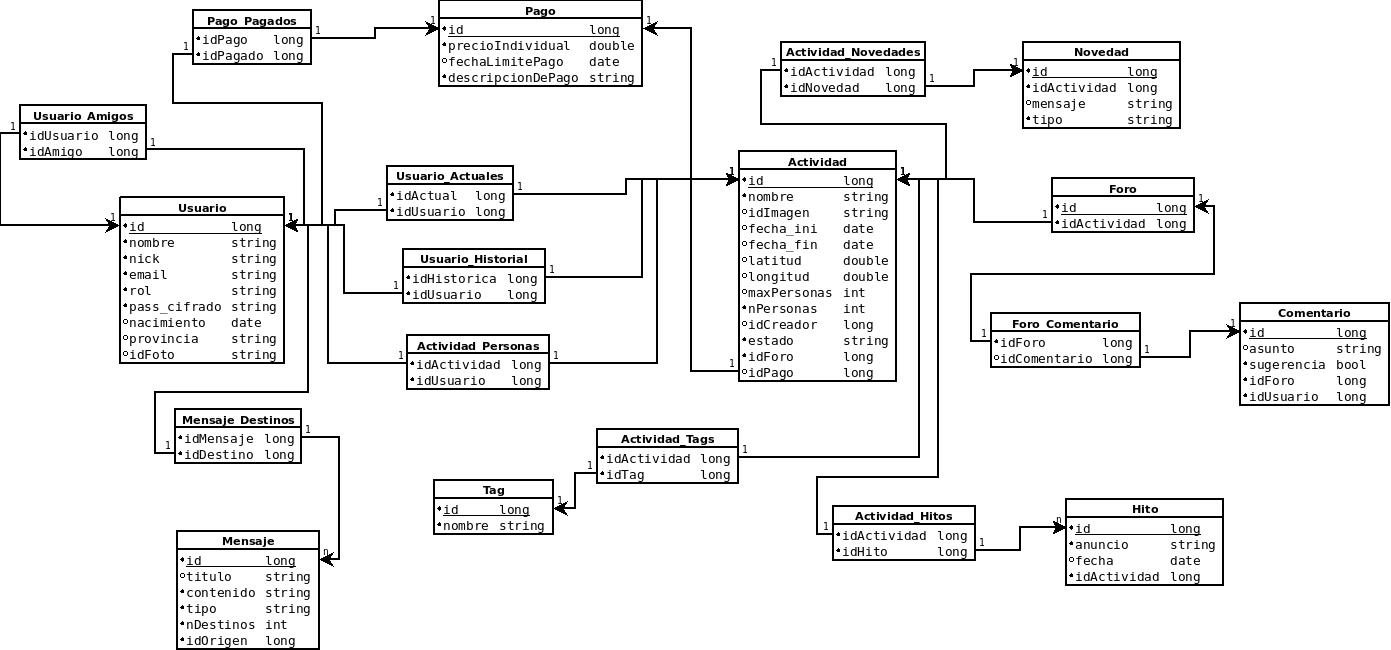
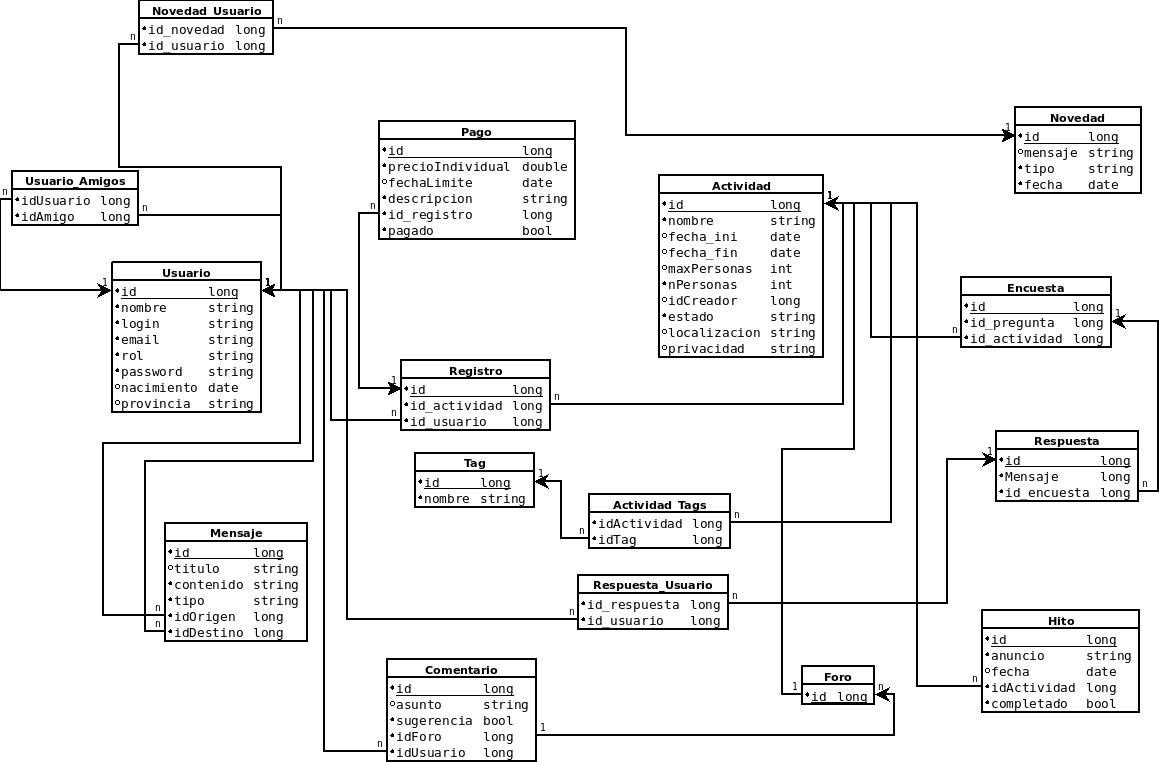
imagen bae de datos

diff --git a/src/main/webapp/resources/js/misActividades.js b/src/main/webapp/resources/js/misActividades.js
@@ -4,7 +4,15 @@ var temp2 = null;
 var temp3 = null;
 var temp4 = null;
 var modo=0;
+var filtro=" ";
 
+
+
+function filtro(valor){
+	
+	filtro+=" AND "+valor;
+	
+}
 
 $('input[type="checkbox"][name="switch1"]').change(function(){
 	if(this.checked){
@@ -42,6 +50,7 @@ function refrescar(data){
 	 } else {
 		 burbuja(data);
 	 }
+	 filtro="";
 }
 
 

diff --git a/src/main/java/es/fdi/iw/controller/HomeController.java b/src/main/java/es/fdi/iw/controller/HomeController.java
@@ -1161,7 +1161,7 @@ public class HomeController {
 			 } 
 			 
 			 
-			 model.addAttribute("tags", fin);
+			model.addAttribute("tags", fin);
 			model.addAttribute("usuarios", entityManager.createNamedQuery("allUsers").getResultList());
 			model.addAttribute("amigos", u.getAmigos());
 			return "crear";
@@ -1211,6 +1211,11 @@ public class HomeController {
 
 	@RequestMapping(value = "/actividades", method = RequestMethod.GET)
 	public String actividades(Model model, HttpSession session){
+		
+		java.sql.Date sqlDate = new java.sql.Date(new java.util.Date().getTime());
+		
+		model.addAttribute("hoy", sqlDate.getDay());
+		model.addAttribute("mes", sqlDate.getMonth());
 		
 		
 		if(((Usuario)session.getAttribute("usuario"))!=null){

diff --git a/src/main/java/es/fdi/iw/model/Actividad.java b/src/main/java/es/fdi/iw/model/Actividad.java
@@ -47,7 +47,6 @@ public class Actividad{
 	private String localizacion;
 	private String destino;
 	private List<Hito> proximosHitos;
-	private String idImagen;
 	private String estado;
 	private int maxPersonas;
 	private int n_personas;
@@ -122,12 +121,6 @@ public class Actividad{
 		this.nombre = nombre;
 	 }
 
-	 public String getIdImagen(){
-		 return idImagen;
-	 }
-	 public void setIdImagen(String idImagen){
-		 this.idImagen=idImagen;
-	 }
 	 public int getMaxPersonas(){
 		 return maxPersonas;
 	 }

diff --git a/src/main/java/es/fdi/iw/model/Mensaje.java b/src/main/java/es/fdi/iw/model/Mensaje.java
@@ -37,7 +37,6 @@ public class Mensaje {
 	private long id;
 	private Usuario origen;
 	private Usuario destinos;
-	private int nDestinos;
 	private String titulo;
 	private String contenido;
 	private String tipo;
@@ -63,12 +62,7 @@ public class Mensaje {
 	public void setId(long id) {
 	  this.id = id;
 	}
-	public int getNDestinos() {
-	  return nDestinos;
-	}
-	public void setNDestinos(int n) {
-	  this.nDestinos = n;
-	} 
+
 	public String getTitulo() {
       return titulo;
 	}
